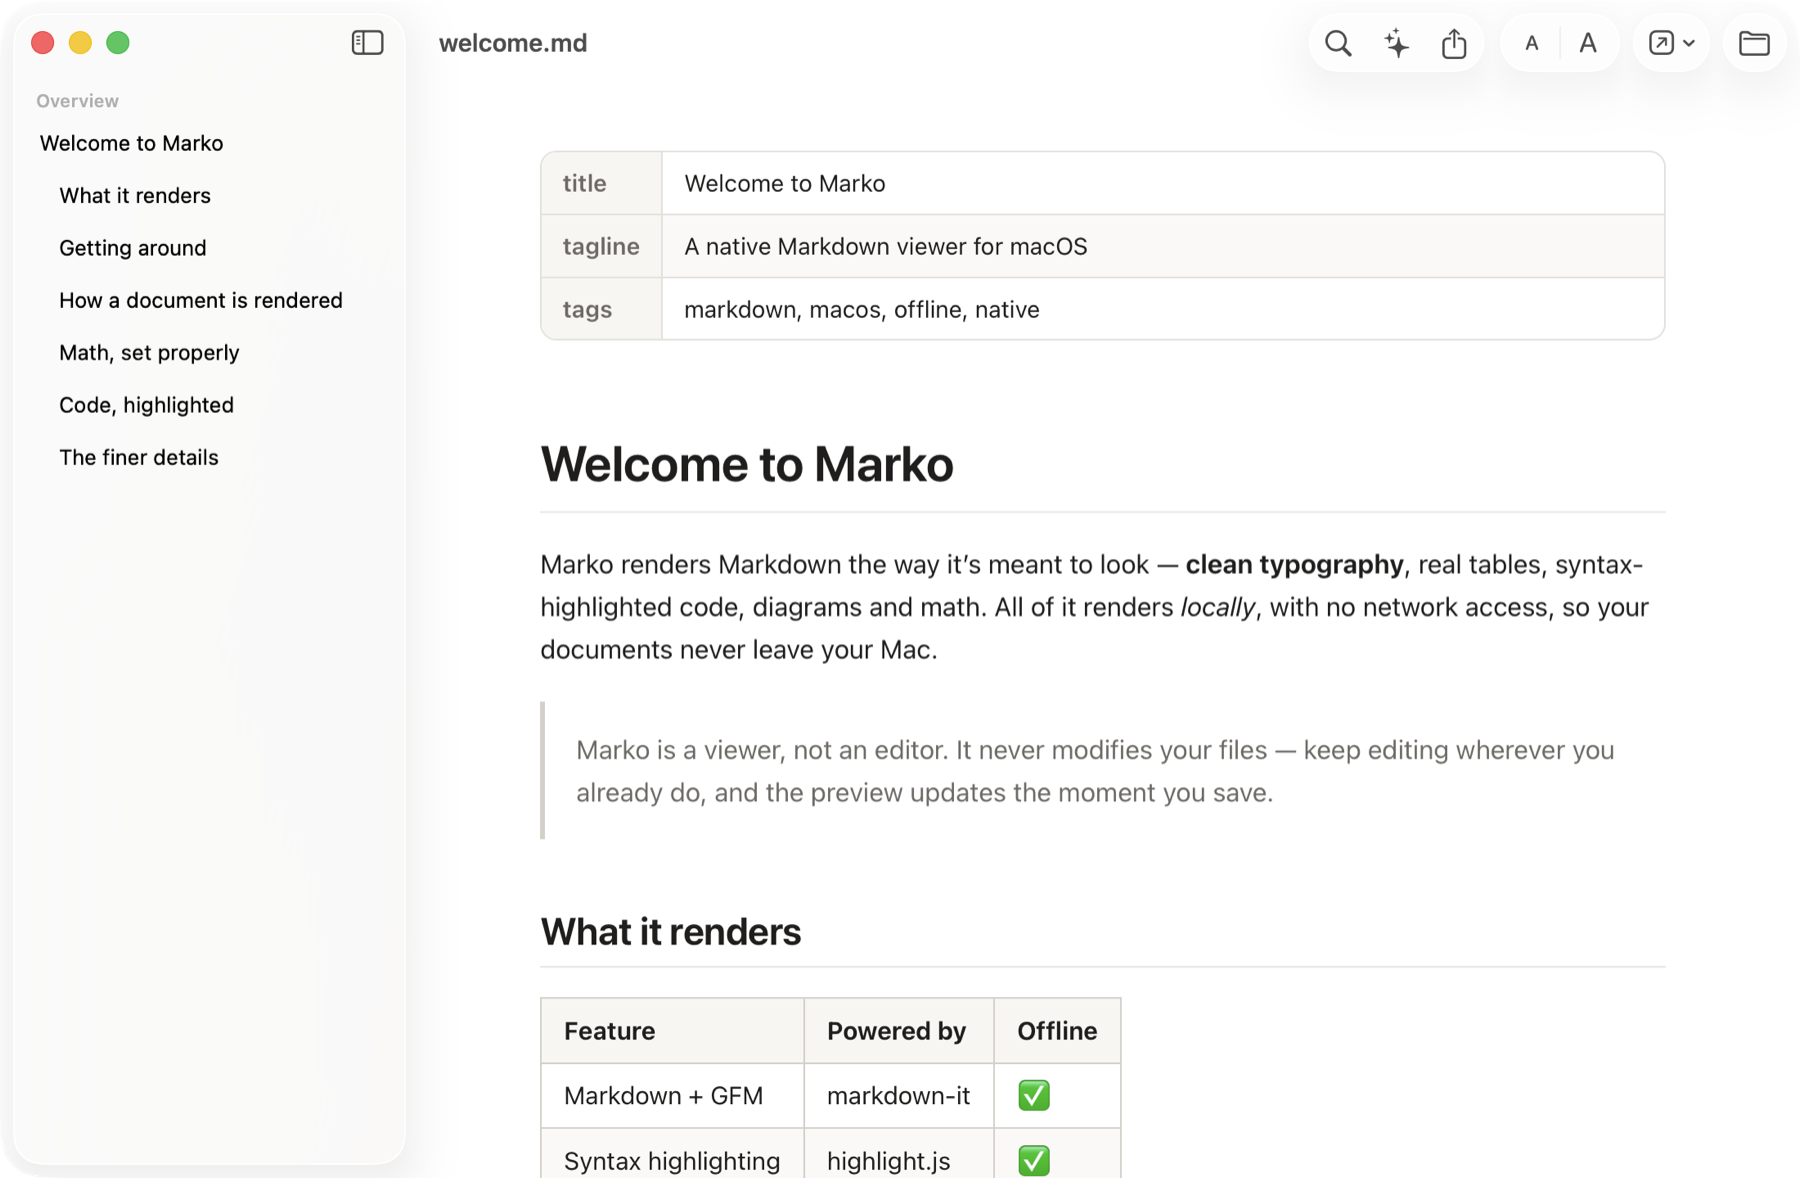
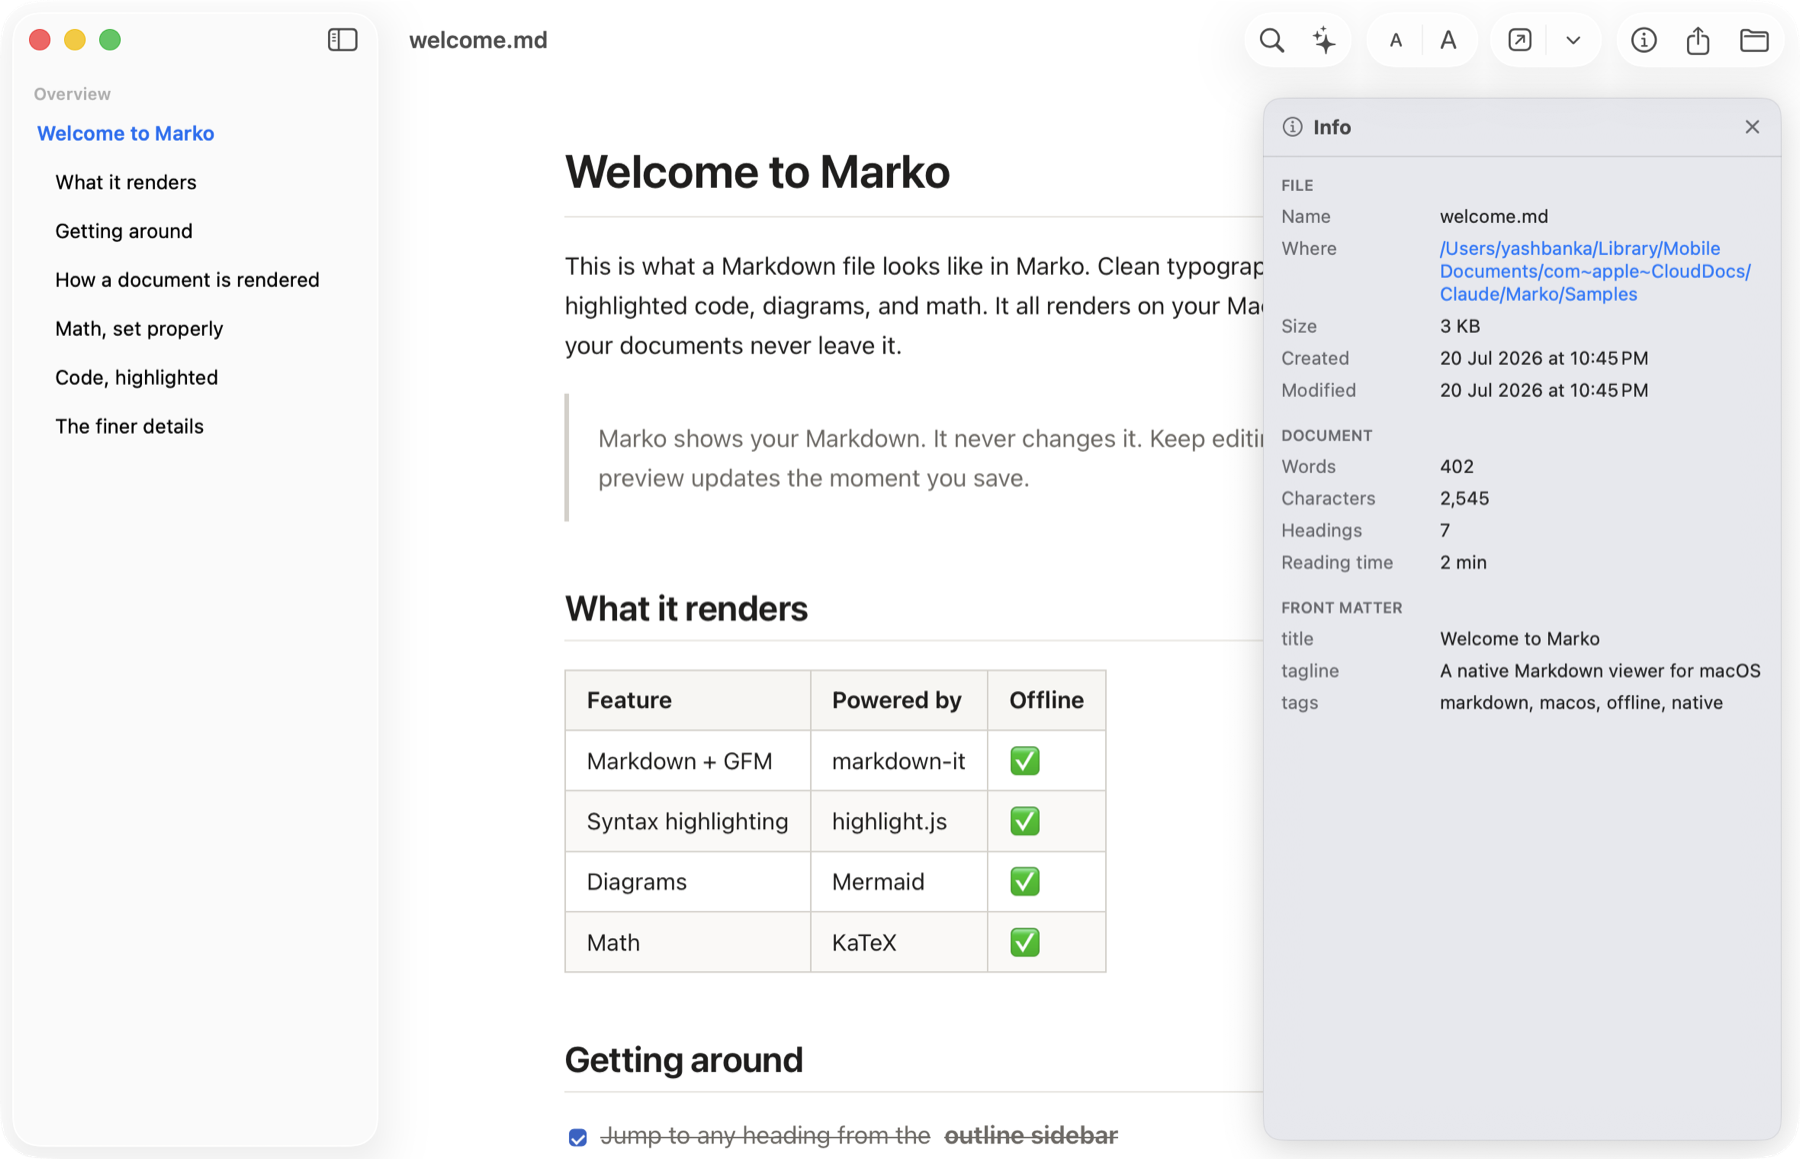
Update the page for the Info panel (front matter moved out of the body)
v1.2.0 moves YAML front matter out of the document body and into the Info
panel (⌘I), so the page no longer matches the app.

- README: drop "YAML front matter" from the GFM-rendering bullet, add an
  Info panel bullet (path, size, dates, counts, reading time, front
  matter), and fix the hero-light alt text.
- hero-light.png: recapture with the Info panel open, which both removes
  the stale front-matter table and shows off the new feature.
- social-preview.png + social.html: re-embed a fresh screenshot; the old
  one showed the front-matter table and pre-voice-pass em-dash copy.

YAS-23.

diff --git a/README.md b/README.md
@@ -16,7 +16,7 @@
 </p>
 
 <p align="center">
-  <img src="assets/hero-light.png" alt="Marko in light mode: outline sidebar, YAML front matter rendered as a table, headings, prose and a GFM table" width="900">
+  <img src="assets/hero-light.png" alt="Marko in light mode: the Info panel open beside a document, showing file details and YAML front matter, next to the outline sidebar, headings, and a GFM table" width="900">
 </p>
 
 ## What it does
@@ -37,11 +37,13 @@ math. No more raw text.
   Intelligence.
 - **Outline sidebar.** Jump to any heading.
 - **Find and print.** Find in page with ⌘F. Print or export a PDF with ⌘P.
+- **Info panel.** Press ⌘I for a document's path, size, and dates, its word,
+  character, and heading counts, reading time, and its YAML front matter.
 - **Open With.** Send the file to your editor in one click.
 - **Share.** Share the Markdown source itself, so Copy puts the raw text on your
   clipboard.
-- **All of GFM.** Tables and task lists, footnotes, definition lists, YAML front
-  matter, [Mermaid](https://mermaid.js.org) diagrams, and [KaTeX](https://katex.org) math.
+- **All of GFM.** Tables and task lists, footnotes, definition lists,
+  [Mermaid](https://mermaid.js.org) diagrams, and [KaTeX](https://katex.org) math.
 - **Themes and zoom.** Light, Dark, and System. Text from 50% to 300%.
 - **Your toolbar.** Choose which buttons to show.
 - **Universal.** One app for Apple Silicon and Intel. And it's small.